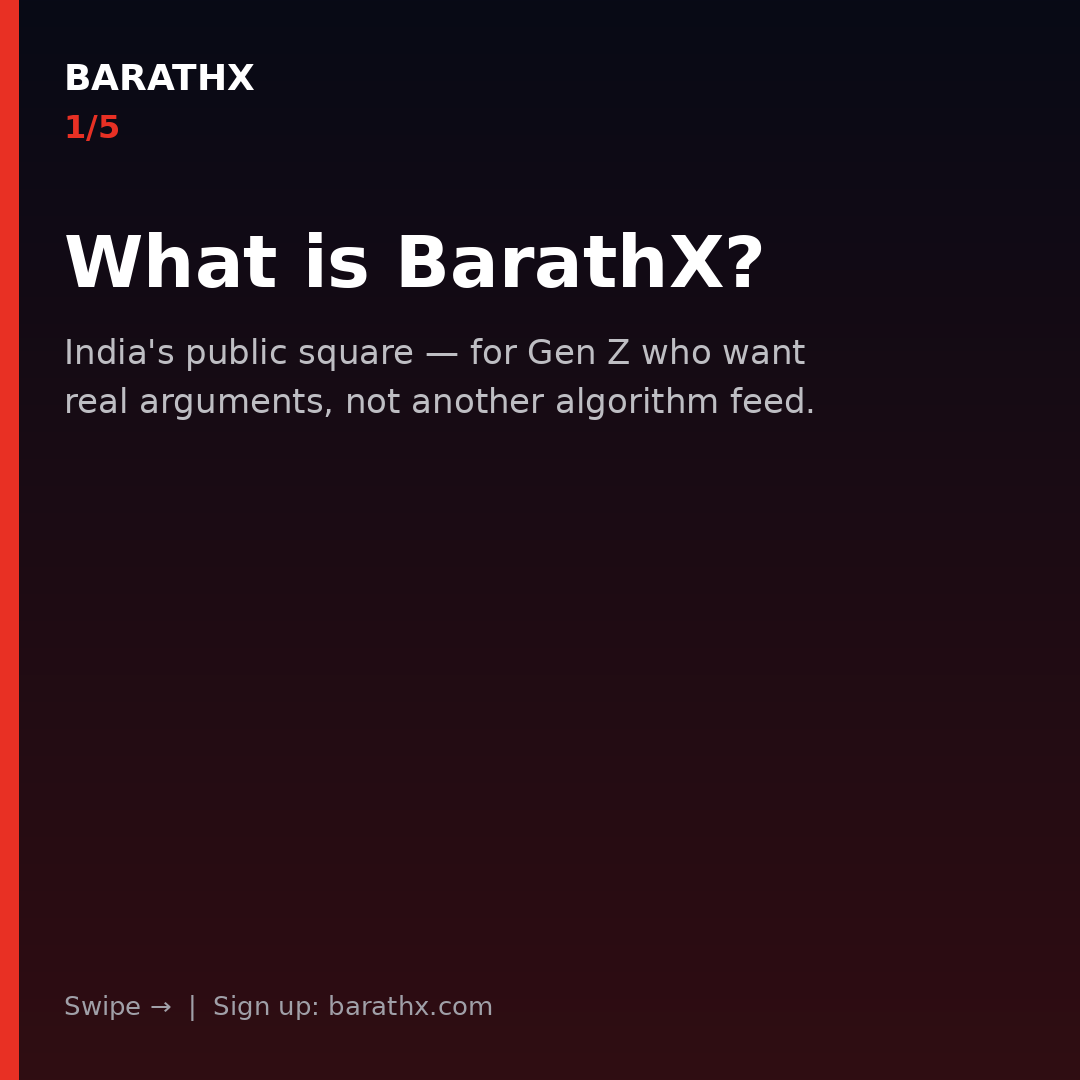
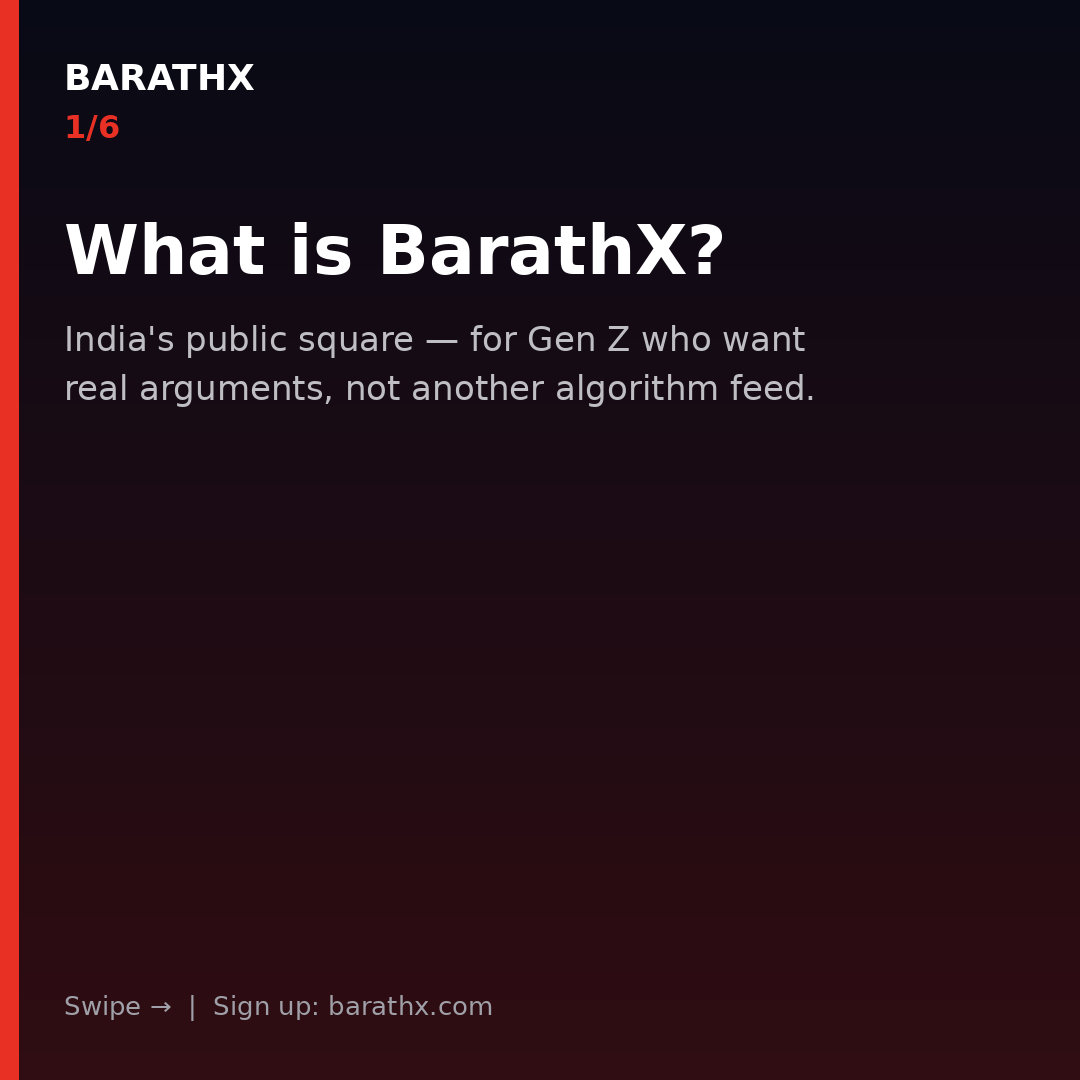
content: add privacy slide to What is BarathX carousel
One dedicated slide: we don’t sell personal data. Still draft —
awaiting approval before any IG publish.

Changed region(s): [[0.0611, 0.3056, 0.7639, 0.3972], [0.0611, 0.1833, 0.7028, 0.275], [0.0917, 0.0917, 0.1222, 0.1222]]

diff --git a/brand/ig/CAPTIONS-2026-08-10-what-is.md b/brand/ig/CAPTIONS-2026-08-10-what-is.md
@@ -2,16 +2,17 @@
 
 **Do not post until approved.**
 
-Spelling: **BarathX** (not BaratX). No First 100 / ₹150.
+Spelling: **BarathX**. No First 100 / ₹150.
 
-## Carousel slides
+## Carousel slides (6)
 1. What is BarathX?
 2. Drop a take. Pick a side.
 3. Square · Arenas · Live
-4. Human takes only.
-5. This is BarathX. → signup CTA
+4. **Your data stays yours** (we don’t sell your personal data) — *only this slide*
+5. Human takes only.
+6. This is BarathX. → signup CTA
 
-Files: `brand/ig/posted/2026-08-10/bx-what-car-1.jpg` … `bx-what-car-5.jpg`
+Files: `brand/ig/posted/2026-08-10/bx-what-car-1.jpg` … `bx-what-car-6.jpg`
 
 ## Caption (draft)
 ```
@@ -21,8 +22,10 @@ India’s public square — for Gen Z who want real arguments, not another algor
 
 Drop a take. Pick a side. Real replies — not a performance.
 
+We don’t sell your personal data.
+
 Sign up → barathx.com
 Comment BX if you want the link.
 
-#BarathX #India #GenZ #PublicSquare #PickASide #Debate #CampusLife #BuildInPublic
+#BarathX #India #GenZ #PublicSquare #PickASide #Debate #Privacy #BuildInPublic
 ```
